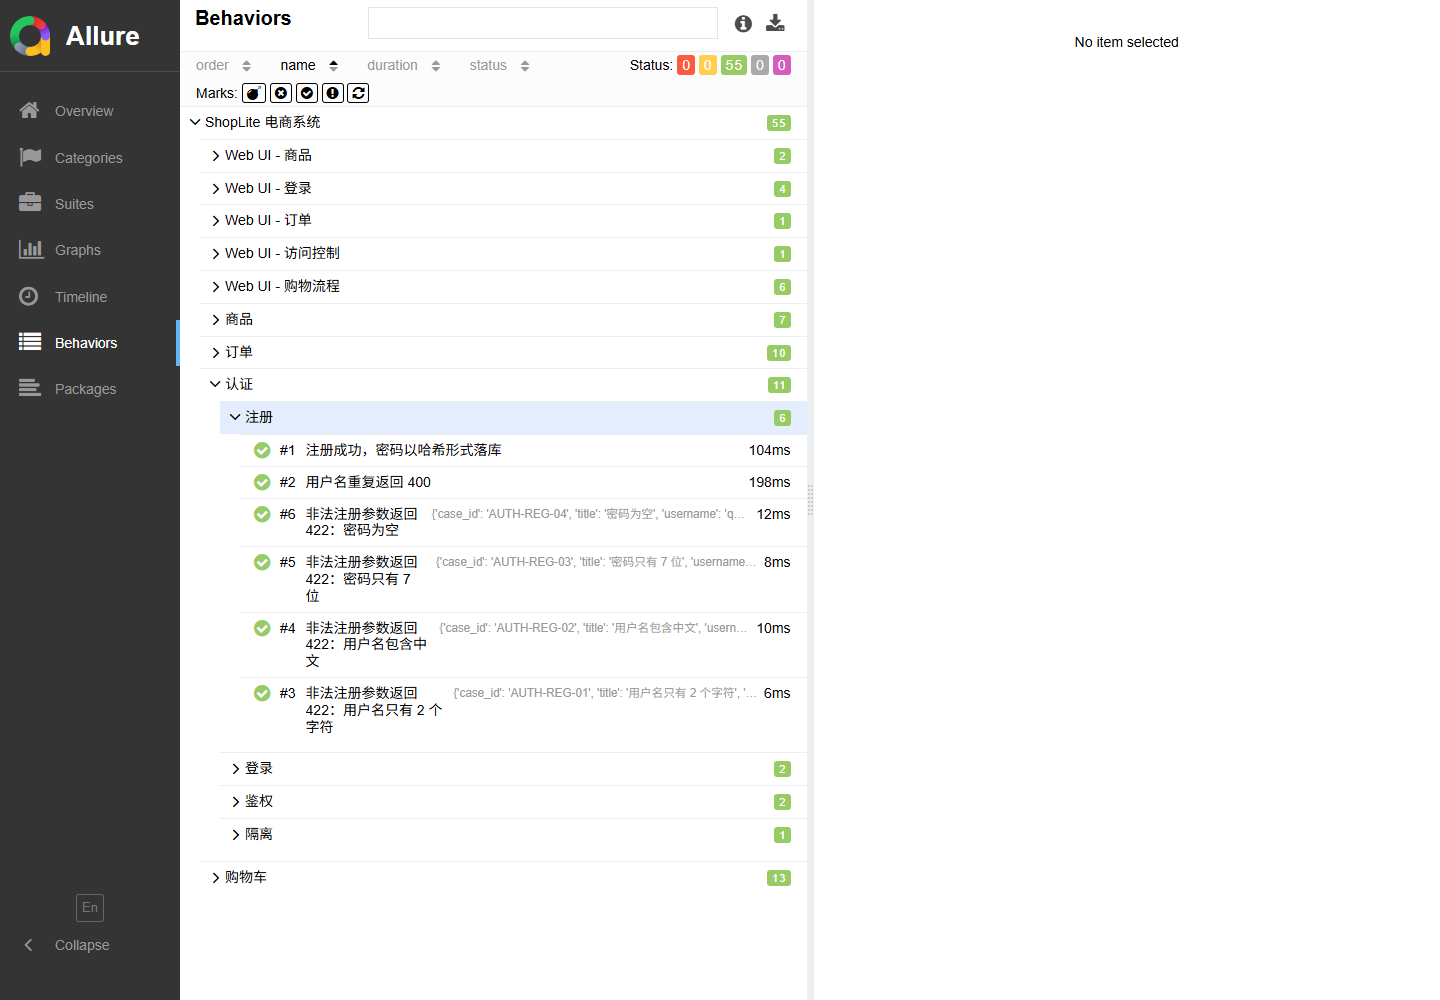
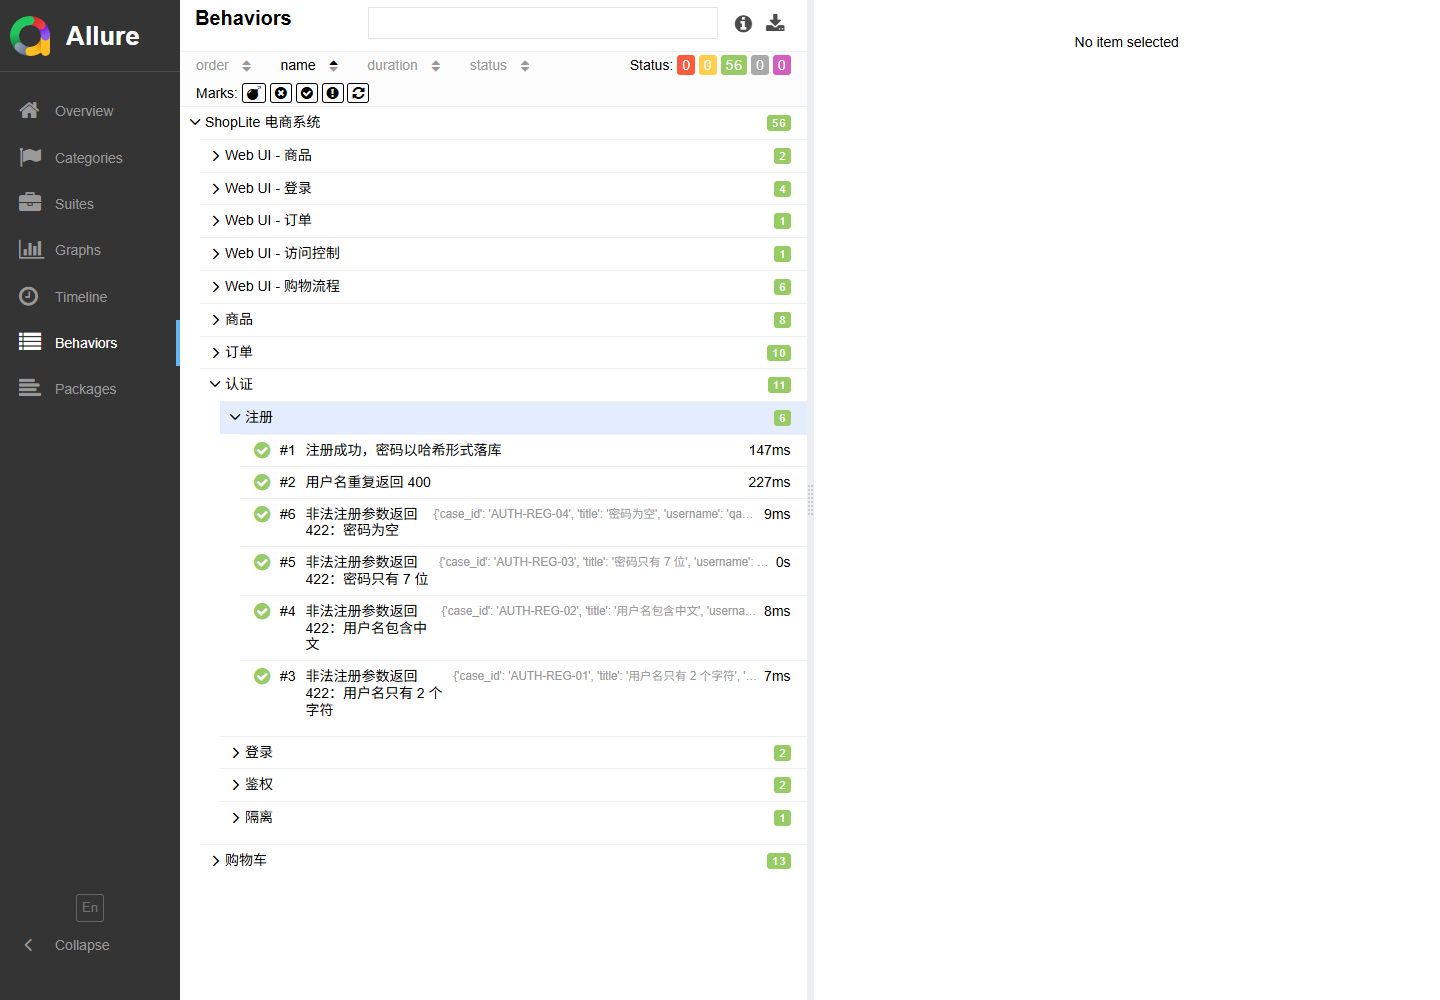
test: add empty keyword product search API case

diff --git a/tests/api/test_products.py b/tests/api/test_products.py
@@ -65,6 +65,16 @@ class TestProducts:
             assert items == []
 
     @allure.story("搜索")
+    @allure.title("搜索空关键字返回所有商品")
+    def test_search_empty_keyword(self, api):
+        response = api.get("/api/products", params={"q": ""})
+
+        assert_status(response, 200)
+        body = response.json()
+        assert body["total"] == 7
+        assert len(body["items"]) == 7
+
+    @allure.story("搜索")
     @allure.title("搜索关键字不区分大小写")
     def test_search_is_case_insensitive(self, api):
         response = api.get("/api/products", params={"q": "USB"})

diff --git a/docs/简历写法.md b/docs/简历写法.md
@@ -13,7 +13,7 @@
 `Python / pytest / requests / Playwright / Allure / SQLite / GitHub Actions`
 
 - 独立搭建 API + Web UI 分层自动化框架，采用 Page Object、fixture、YAML 数据驱动，覆盖登录、商品、购物车、优惠券、下单、订单查询等核心链路。
-- 设计并实现 **55 条**自动化用例（41 条接口 + 14 条 UI），覆盖正常流、异常流、边界值、库存上限、优惠券门槛和用户越权。
+- 设计并实现 **56 条**自动化用例（42 条接口 + 14 条 UI），覆盖正常流、异常流、边界值、库存上限、优惠券门槛和用户越权。
 - 封装 requests 客户端与 JSON Schema 契约校验；下单用例增加订单、明细、库存的 SQLite 断言，避免“接口返回成功但数据未落库”的假通过。
 - 接入 Allure 报告与 GitHub Actions，失败自动附请求/响应/截图/页面 HTML；支持 `pytest -m smoke` 冒烟回归。
 
@@ -23,15 +23,15 @@
 
 **主要工作**：
 
-1. **测试设计**：梳理登录、商品、购物车、优惠券、下单、订单六条业务链路，输出测试计划与 55 条用例，使用等价类、边界值、场景法、错误推测补充异常场景。
+1. **测试设计**：梳理登录、商品、购物车、优惠券、下单、订单六条业务链路，输出测试计划与 56 条用例，使用等价类、边界值、场景法、错误推测补充异常场景。
 2. **接口自动化**：基于 pytest + requests 封装 `ApiClient`，统一 token、日志、Allure 附件；用 JSON Schema 校验响应契约，用 YAML 参数化覆盖注册异常和优惠券规则。
 3. **UI 自动化**：基于 Playwright 实现 Page Object，页面统一 `data-testid`；覆盖登录、搜索、加购、改数量、结算、下单、订单历史，失败自动截图并保存 HTML。
 4. **数据校验**：每个用例使用独立随机用户，测试会话使用临时 SQLite；下单后断言订单主表、订单明细、库存扣减，验证数据一致性。
 5. **工程化**：接入 Allure 报告、日志、PyCharm 运行配置和 GitHub Actions；支持按 `smoke`、`api`、`ui` 标记分组执行。
 
-**项目成果**：全量 55 条用例本地执行通过，单次全量约 30 秒；冒烟集 6 条约 7 秒；失败用例可通过 Allure 直接定位到请求、响应、截图和数据库结果。
+**项目成果**：全量 56 条用例本地执行通过，单次全量约 33 秒；冒烟集 6 条约 7 秒；失败用例可通过 Allure 直接定位到请求、响应、截图和数据库结果。
 
-> 如果你还没有真正跑过一次，先把“项目成果”改成“完成 55 条用例设计与实现，正在接入 CI”，不要虚构通过率。
+> 如果你还没有真正跑过一次，先把“项目成果”改成“完成 56 条用例设计与实现，正在接入 CI”，不要虚构通过率。
 
 ---
 
@@ -47,7 +47,7 @@
 我先写了一个最小电商系统 ShopLite，再把测试分成三层：接口层用 pytest + requests，UI 层用 Playwright + Page Object，数据层用 SQLite 断言。用例设计上覆盖正常流、异常流、边界值和越权；工程上接了 Allure、日志和 GitHub Actions。
 
 **R（结果）**  
-最终形成 55 条自动化用例，覆盖从登录到下单的完整链路。全量执行通过，失败时能直接看到请求、响应、截图和数据库结果。这个项目让我真正理解了“测试不是点页面，而是设计验证”。
+最终形成 56 条自动化用例，覆盖从登录到下单的完整链路。全量执行通过，失败时能直接看到请求、响应、截图和数据库结果。这个项目让我真正理解了“测试不是点页面，而是设计验证”。
 
 ---
 
@@ -182,7 +182,7 @@ Python / pytest / requests / Playwright / Allure / SQLite / GitHub Actions
 
 • 独立搭建 API + Web UI 分层自动化测试框架，采用 Page Object、fixture、
   YAML 数据驱动，覆盖登录、商品、购物车、优惠券、下单、订单查询。
-• 设计 55 条用例（41 API + 14 UI），覆盖正常流、异常流、边界值、
+• 设计 56 条用例（42 API + 14 UI），覆盖正常流、异常流、边界值、
   库存上限、优惠券门槛和用户越权。
 • 封装 requests 客户端与 JSON Schema 契约校验；下单用例增加订单、
   明细、库存的 SQLite 断言，避免接口假通过。

diff --git a/docs/测试用例.md b/docs/测试用例.md
@@ -1,6 +1,6 @@
 # ShopQA 测试用例
 
-> 说明：表中是“用例设计”，参数化展开后共 **55 条**自动化用例。  
+> 说明：表中是“用例设计”，参数化展开后共 **56 条**自动化用例。  
 > 优先级：P0 核心链路，P1 重要规则，P2 一般异常/兼容。  
 > 自动化：✅ 已自动化，⏳ 后续扩展。
 
@@ -31,6 +31,7 @@
 | PRD-005 | 搜索键盘 | P1 | 有匹配商品 | `q=键盘` | 返回机械键盘 Pro | ✅ |
 | PRD-006 | 搜索无结果 | P2 | 服务正常 | `q=不存在的商品` | 200；items 为空 | ✅ |
 | PRD-007 | 搜索大小写 | P2 | 有匹配商品 | `q=USB` | 不区分大小写，仍能匹配 | ✅ |
+| PRD-008 | 搜索空关键字 | P2 | 服务正常 | `q=` 为空字符串 | 200；返回全部 7 件商品 | ✅ |
 
 ## 3. 购物车模块
 
@@ -88,9 +89,9 @@
 
 | 类型 | 数量 |
 |---|---|
-| 接口自动化（参数化展开） | 41 |
+| 接口自动化（参数化展开） | 42 |
 | UI 自动化 | 14 |
-| 合计 | 55 |
+| 合计 | 56 |
 | P0 冒烟用例 | 见 `pytest -m smoke` |
 | 自动化率（本范围） | 100% |
 

diff --git a/docs/测试报告.md b/docs/测试报告.md
@@ -17,13 +17,13 @@
 
 | 指标 | 结果 |
 |---|---|
-| 用例总数 | 55 |
-| 通过 | 55 |
+| 用例总数 | 56 |
+| 通过 | 56 |
 | 失败 | 0 |
 | 跳过 | 0 |
 | 通过率 | 100% |
-| 全量耗时 | 29.55 秒（pytest 计时，约 30 秒） |
-| 接口用例 | 41 |
+| 全量耗时 | 32.54 秒（pytest 计时，约 33 秒） |
+| 接口用例 | 42 |
 | UI 用例 | 14 |
 
 执行命令：
@@ -35,17 +35,17 @@
 结果：
 
 ```text
-55 passed in 29.55s
+56 passed in 32.54s
 ```
 
 ## 3. 分组结果
 
 | 分组 | 命令 | 结果 |
 |---|---|---|
-| 全量 | `pytest` | 55 passed |
-| 接口 | `pytest tests/api` | 41 passed in 10.00s |
+| 全量 | `pytest` | 56 passed |
+| 接口 | `pytest tests/api` | 42 passed |
 | UI | `pytest tests/ui` | 14 passed |
-| 冒烟 | `pytest -m smoke` | 6 passed, 49 deselected in 6.69s |
+| 冒烟 | `pytest -m smoke` | 6 passed, 50 deselected |
 
 ## 4. 覆盖情况
 

diff --git a/README.md b/README.md
@@ -68,7 +68,7 @@ shopqa-test-framework/
 │   └── orders_page.py
 ├── tests/
 │   ├── conftest.py              # 启动服务、浏览器、用户、登录态 fixture
-│   ├── api/                     # 41 条接口用例
+│   ├── api/                     # 42 条接口用例
 │   ├── ui/                      # 14 条 UI 用例
 │   └── helpers.py
 ├── data/                        # YAML 测试数据
@@ -149,7 +149,7 @@ allure serve reports\allure-results
 
 ![Allure 报告](docs/images/05-allure-overview.png)
 
-*55 条用例全部通过，报告里能看到 41 条接口 + 14 条 UI 的分组。*
+*56 条用例全部通过，报告里能看到 42 条接口 + 14 条 UI 的分组。*
 
 ### 4.5 在 Allure 里看参数化用例的标题
 

diff --git a/.run/README.md b/.run/README.md
@@ -4,9 +4,9 @@ PyCharm 打开项目后，右上角可以选择以下配置：
 
 | 配置 | 作用 |
 |---|---|
-| `ShopQA All Tests` | 全量 55 条 |
+| `ShopQA All Tests` | 全量 56 条 |
 | `ShopQA Smoke` | 冒烟 6 条 |
-| `ShopQA API Tests` | 只跑接口 41 条 |
+| `ShopQA API Tests` | 只跑接口 42 条 |
 | `ShopQA UI Tests (watch)` | 有头浏览器，slow_mo=200ms，方便看操作 |
 | `ShopLite App (8000)` | 启动被测系统，浏览器手工体验 |
 

diff --git a/docs/项目讲解.md b/docs/项目讲解.md
@@ -171,7 +171,7 @@ env["SHOPLITE_DB_PATH"] = str(db_path)
 
 ### 为什么服务只启动一次
 
-启动服务要一两秒，55 条用例每条启动一次太慢。  
+启动服务要一两秒，56 条用例每条启动一次太慢。  
 所以 `demo_server` 用 `scope="session"`，整个会话只启动一次；但每个用例仍然用独立用户，兼顾速度和隔离。
 
 ---
